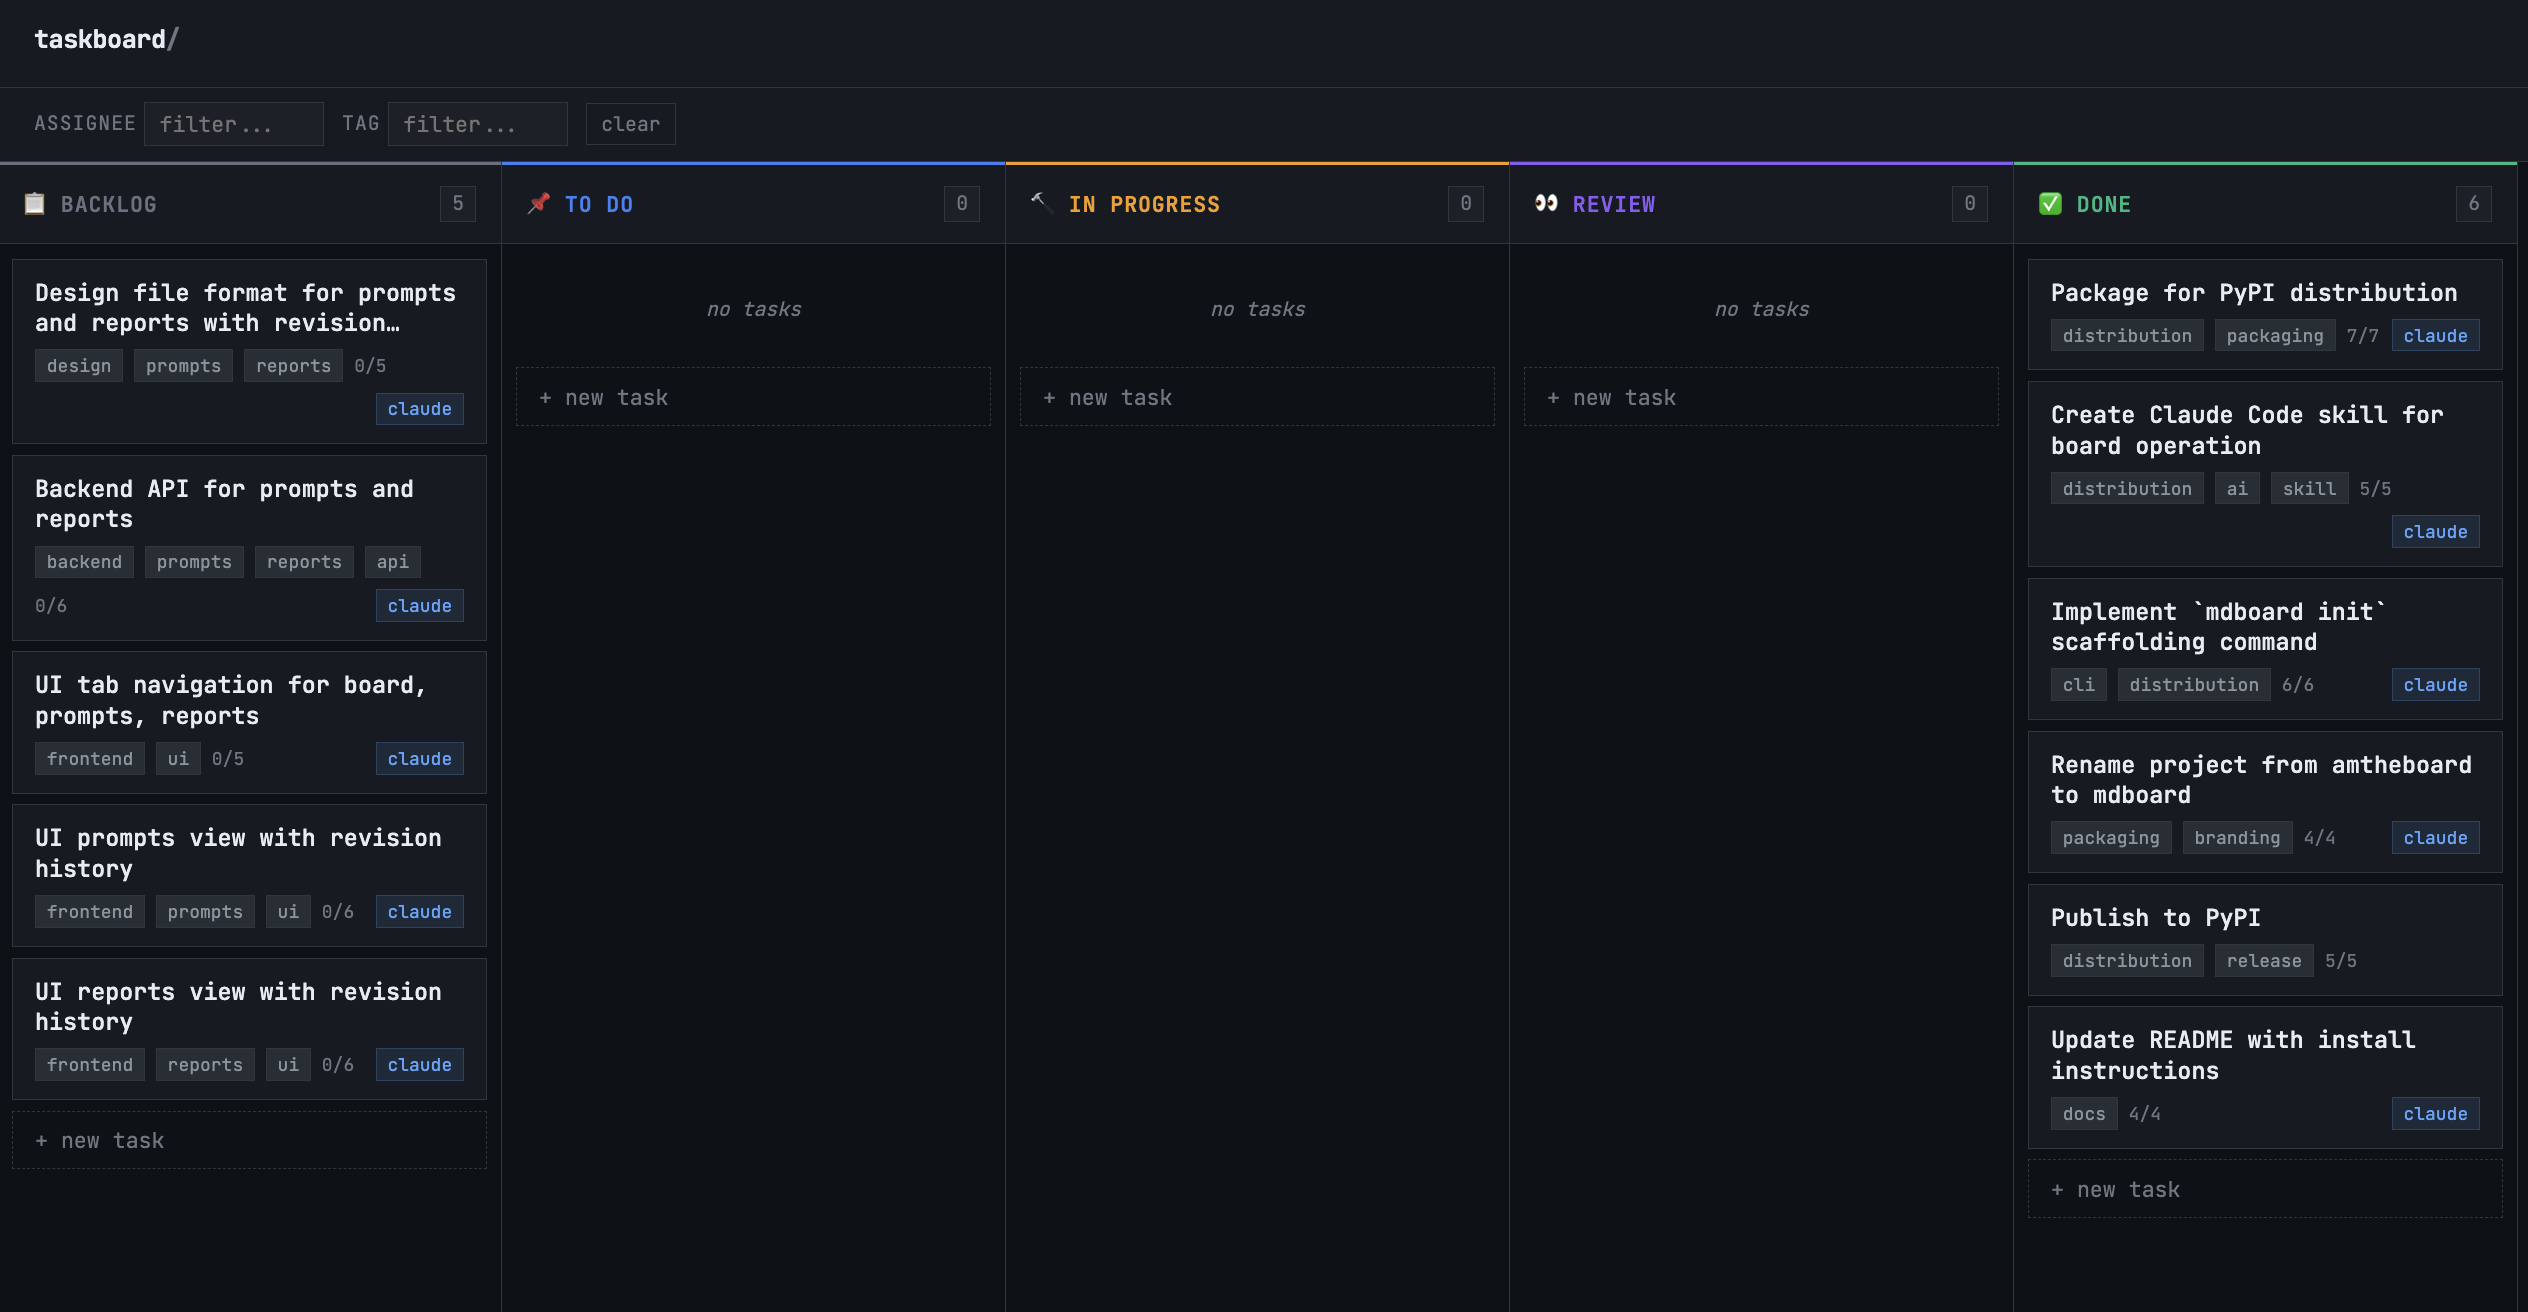
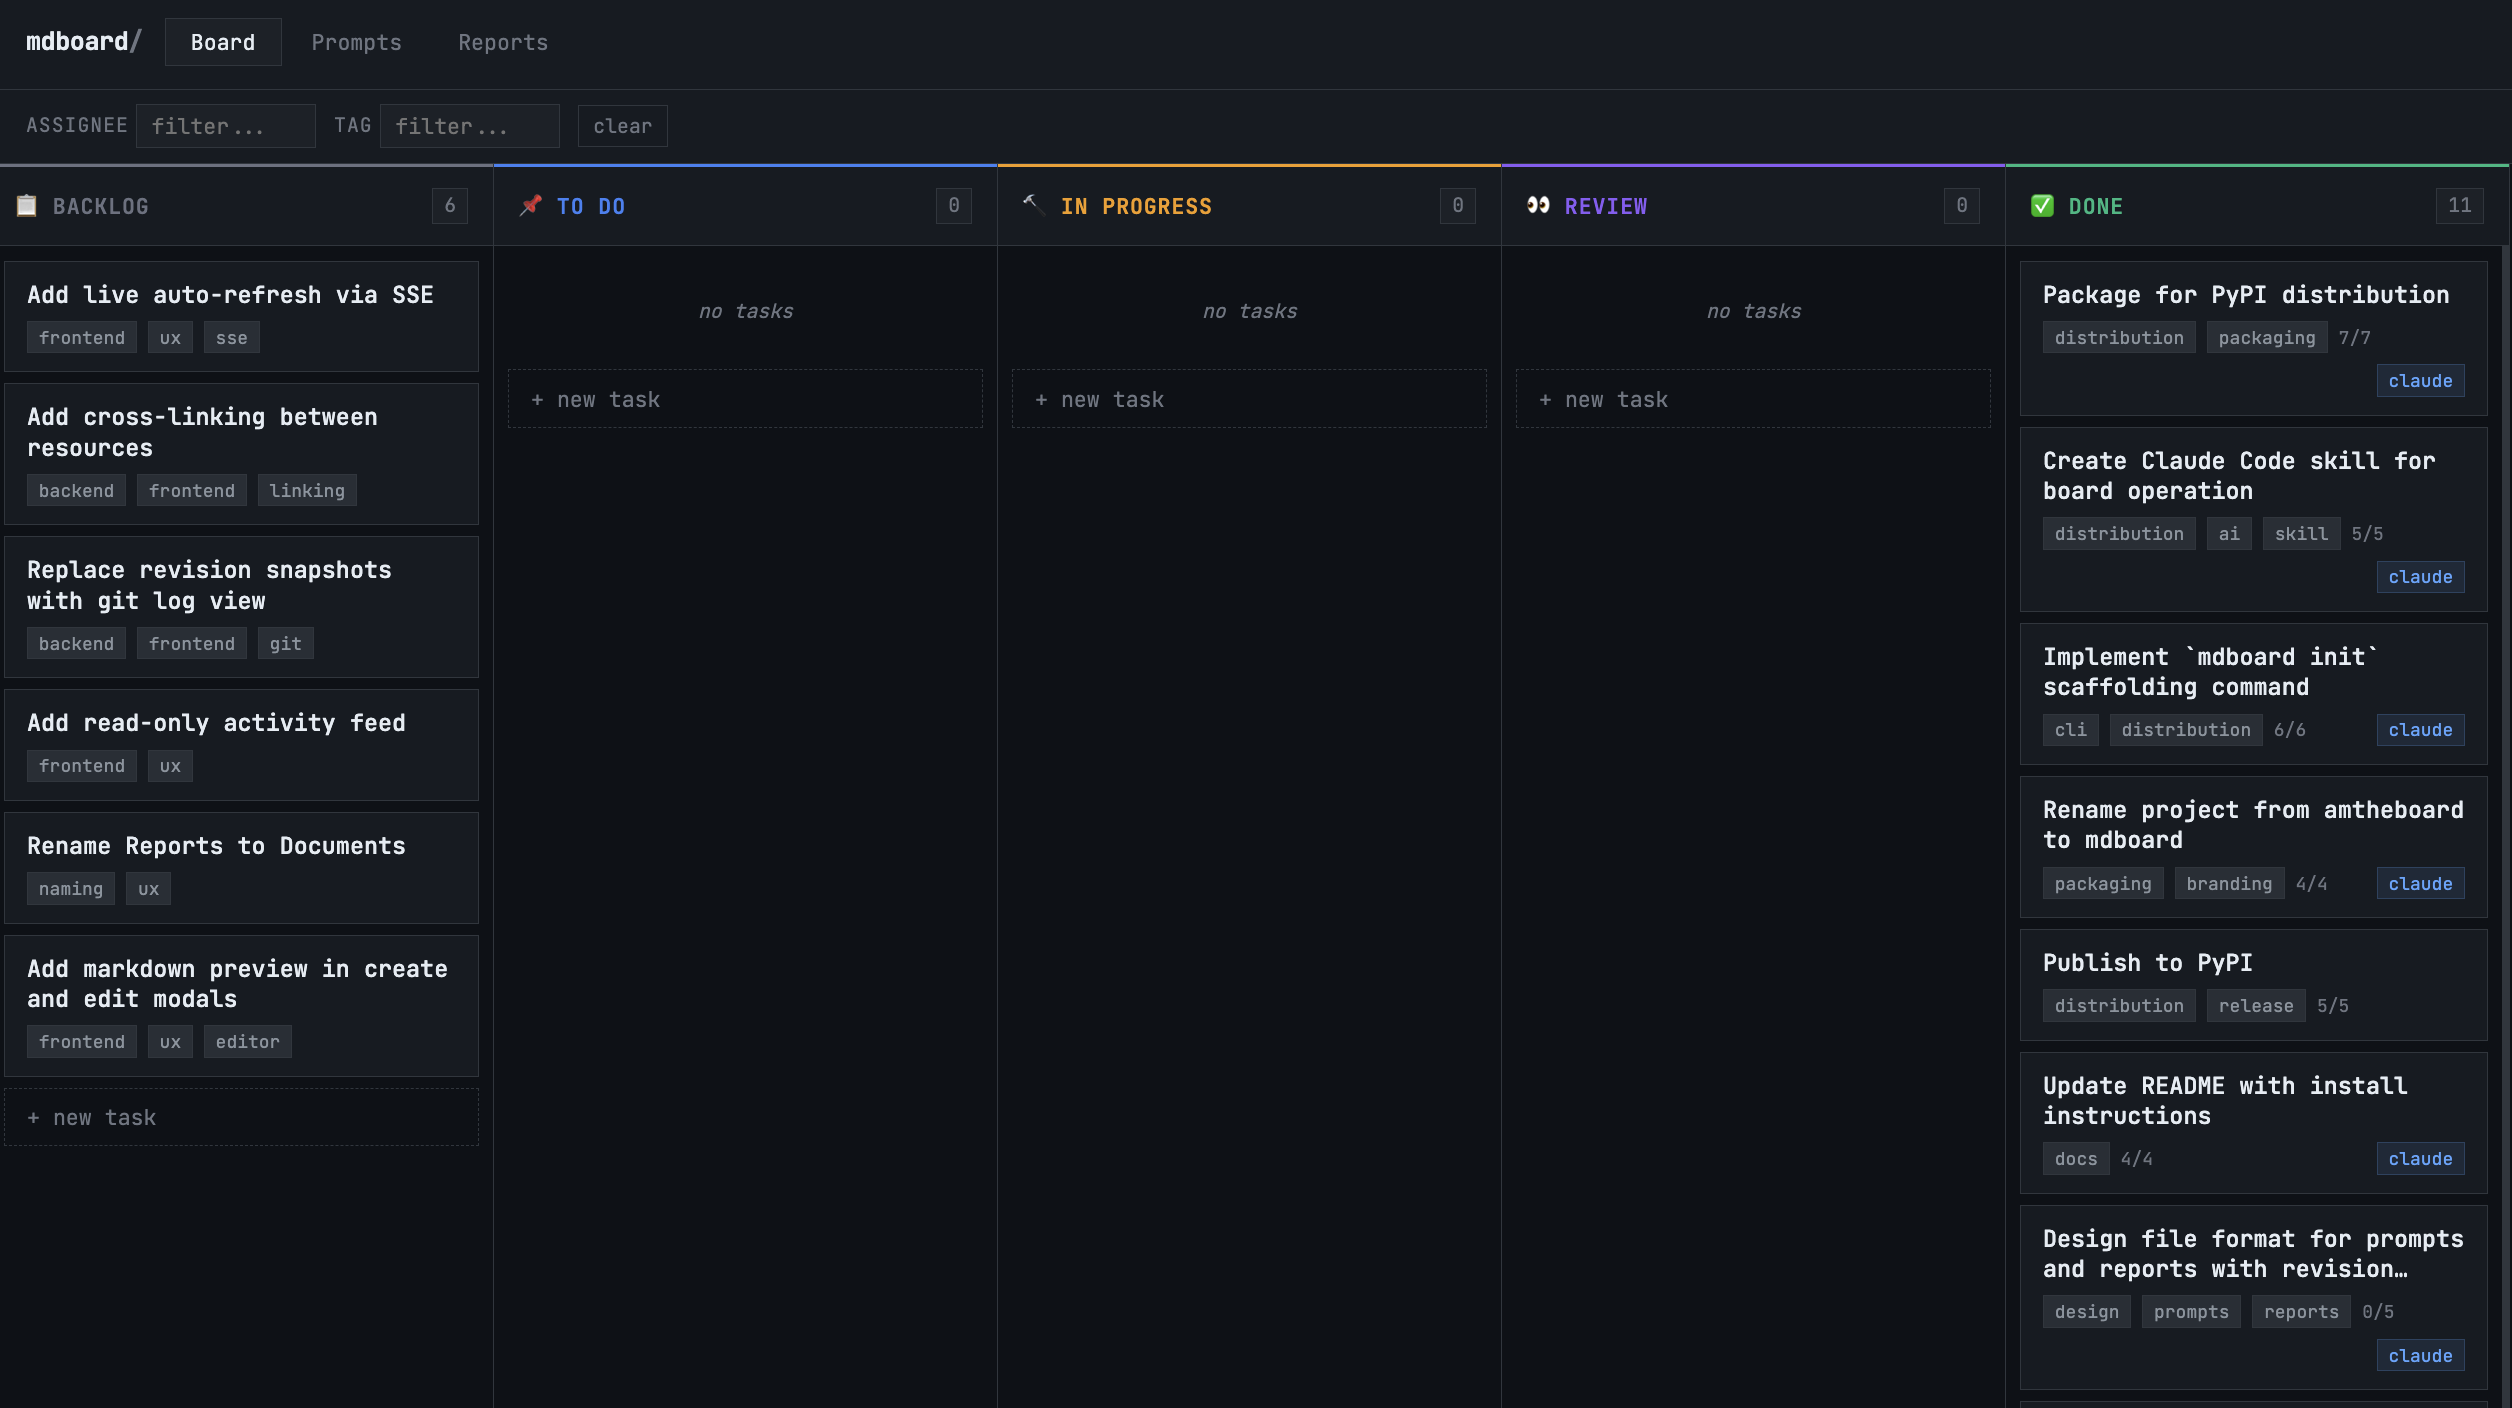
Add app screenshot to README

diff --git a/README.md b/README.md
@@ -4,6 +4,8 @@ A lightweight kanban board where every task is a `.md` file in your repo.
 
 Built for solo developers and AI-assisted workflows. No database, no SaaS, no dependencies -- just markdown files that live alongside your code.
 
+![mdboard](media/app.png)
+
 ## Why not a cloud board?
 
 Cloud project management tools are built for teams coordinating across time zones on work that stretches over days and weeks. But when it's you and your AI agents on one machine, shipping tasks that take minutes to hours, a cloud subscription is overhead. You're paying for collaboration features you don't use, managing another account per project, and context-switching to a browser tab that's disconnected from the code you're actually working on.
